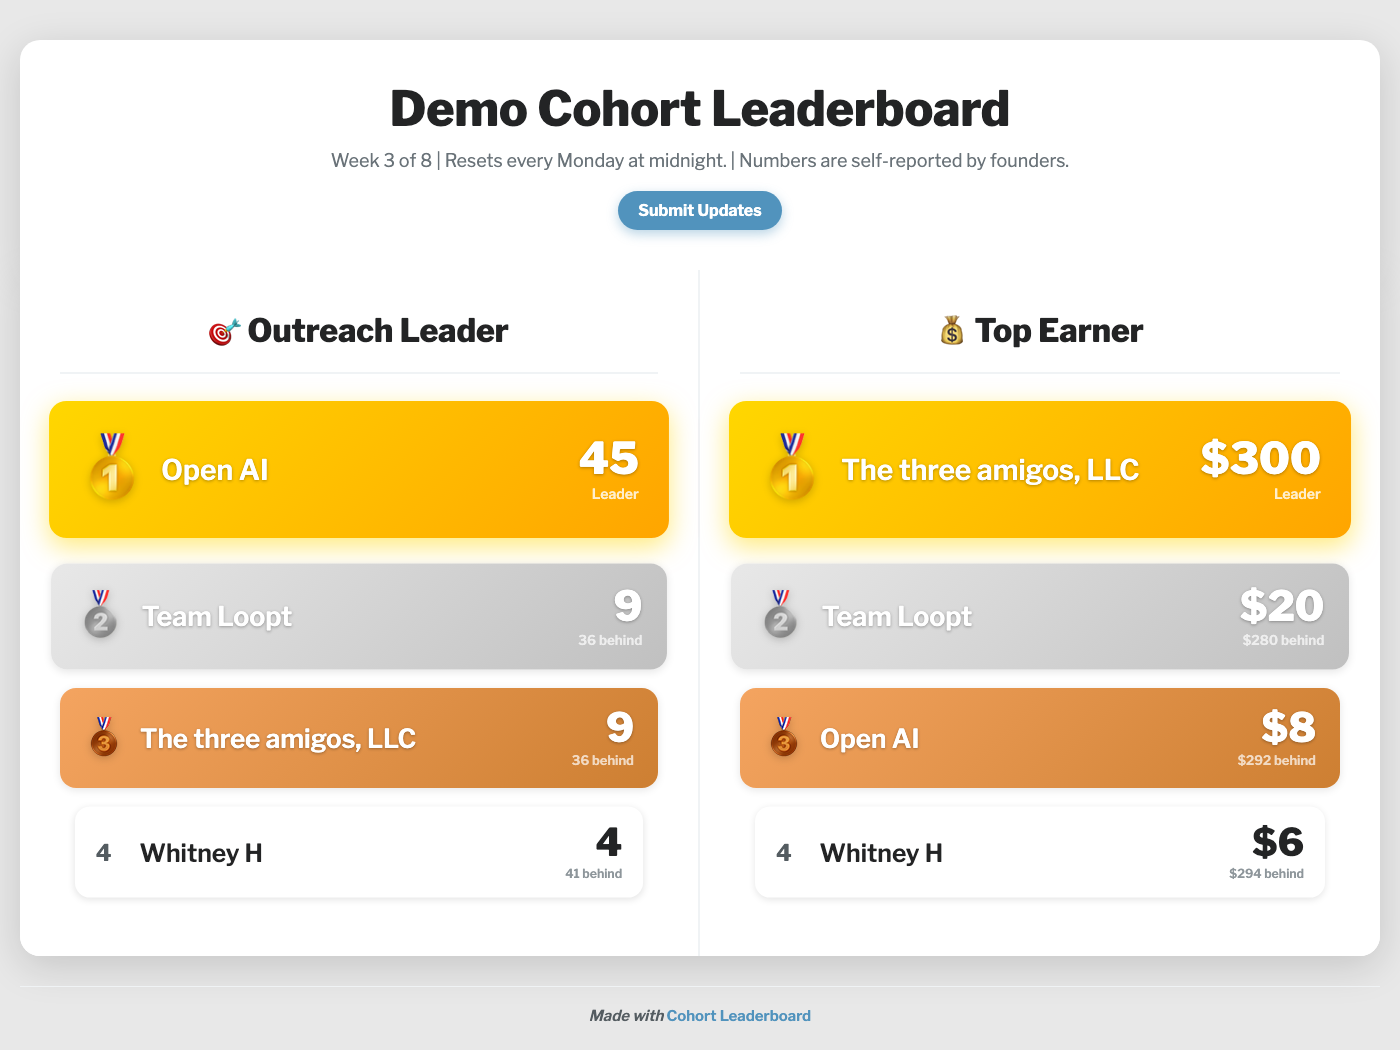
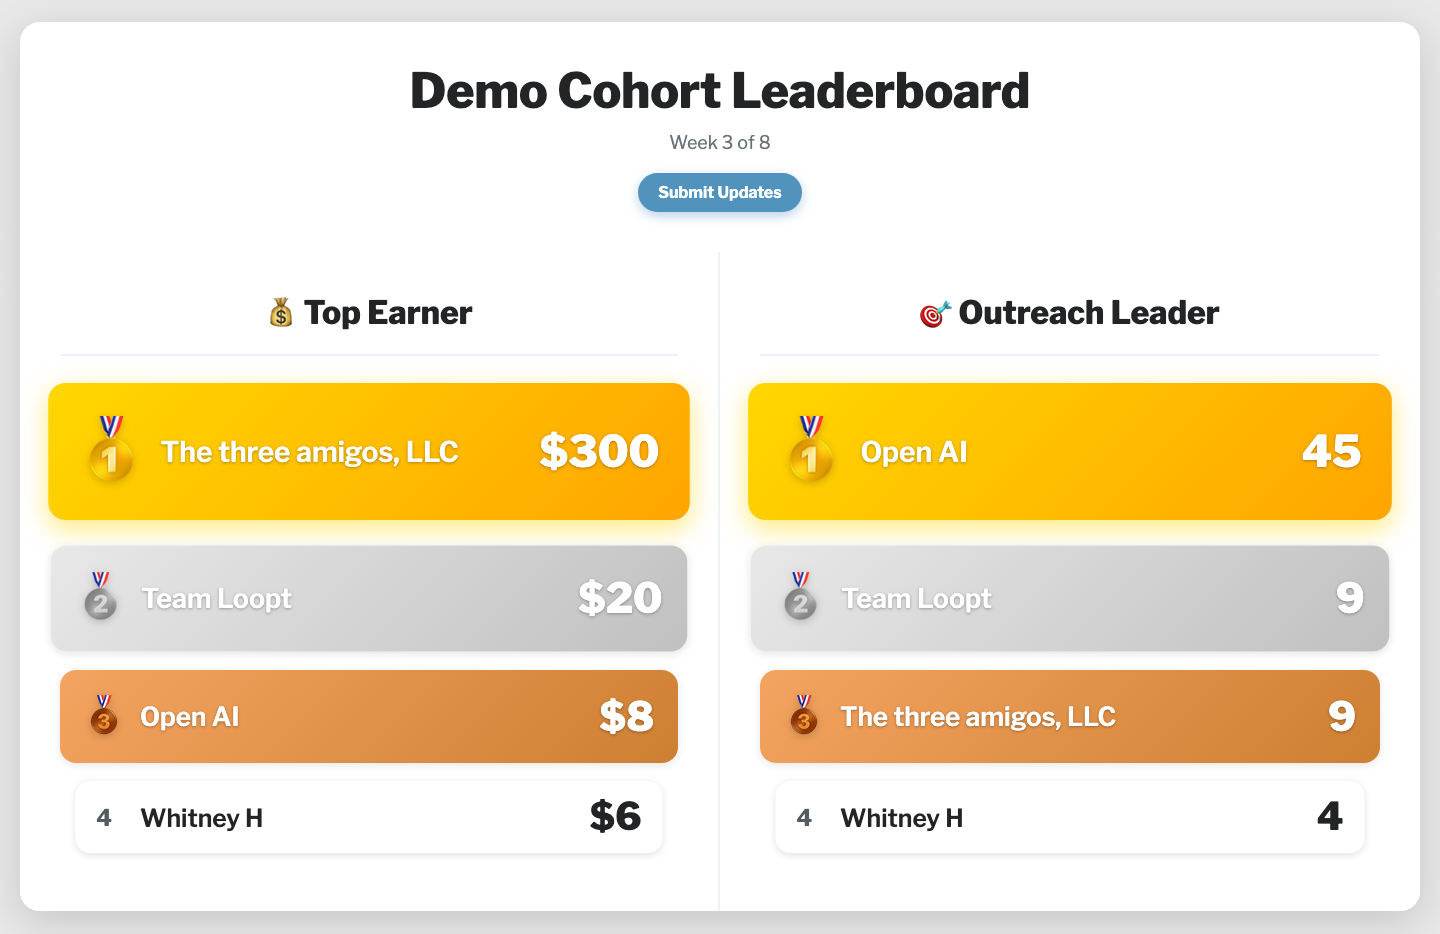
Builder: add demo board screenshot under the lede
Fresh headless capture of the live demo (replaces stale asset); image
links to the demo itself.

diff --git a/make.html b/make.html
@@ -33,6 +33,13 @@
         h1 { font-size: 34px; font-weight: 800; color: var(--color-dark-text); margin-bottom: 10px; }
         .lede { font-size: 17px; color: var(--color-dark-gray); margin-bottom: 28px; line-height: 1.5; }
         .lede a { color: var(--color-accent); font-weight: 600; }
+        .hero-shot {
+            display: block;
+            width: 100%;
+            border: 2px solid var(--color-light-gray);
+            border-radius: 12px;
+            margin-bottom: 28px;
+        }
         .steps-box {
             background: var(--color-light-gray);
             border-radius: 12px;
@@ -116,6 +123,9 @@
             submit into a live scoreboard you can put on a
             projector. Free, nothing to install.
             Never seen one? <a href="index.html?demo=1">View the demo</a>.</p>
+
+        <a href="index.html?demo=1"><img class="hero-shot" src="assets/demo-board.png"
+            alt="A cohort leaderboard: two ranked columns, Top Earner and Outreach Leader, with medals for the top three teams"></a>
 
         <div class="steps-box">
             <h2>First, three steps in Google (about 10 minutes):</h2>